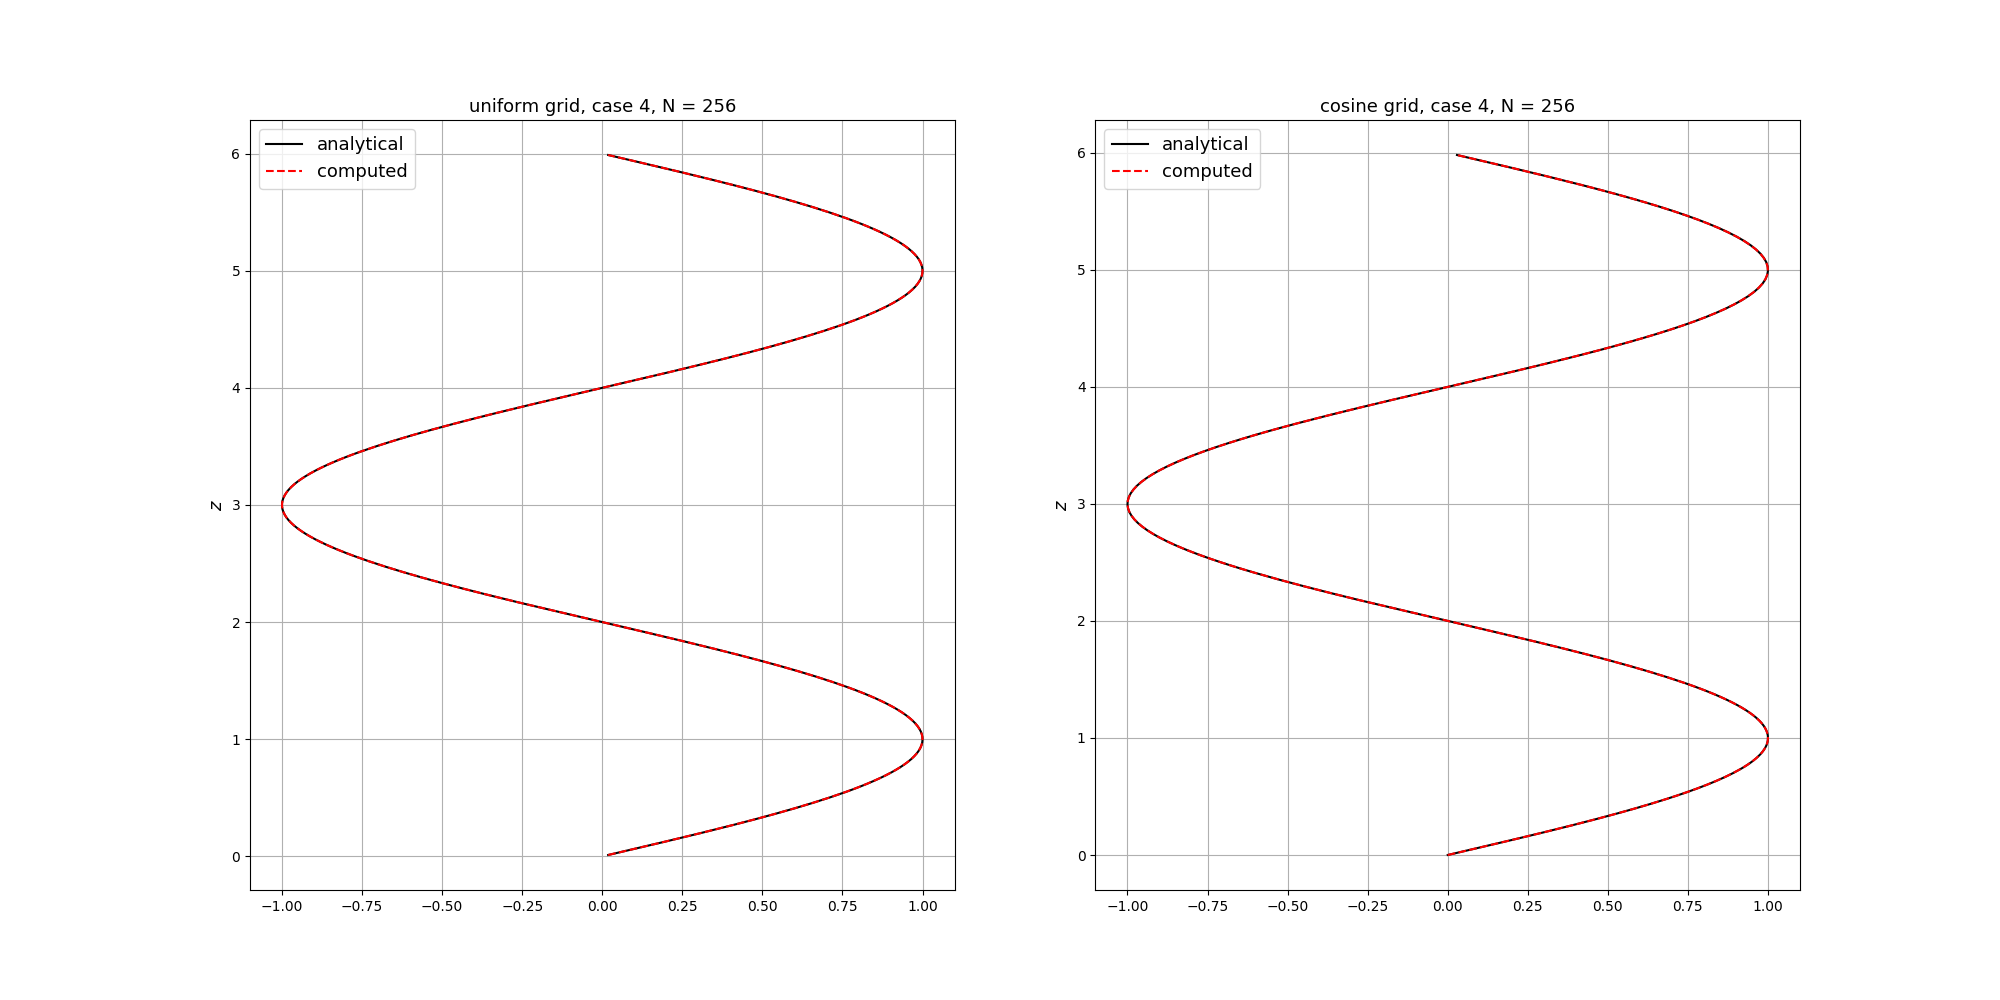
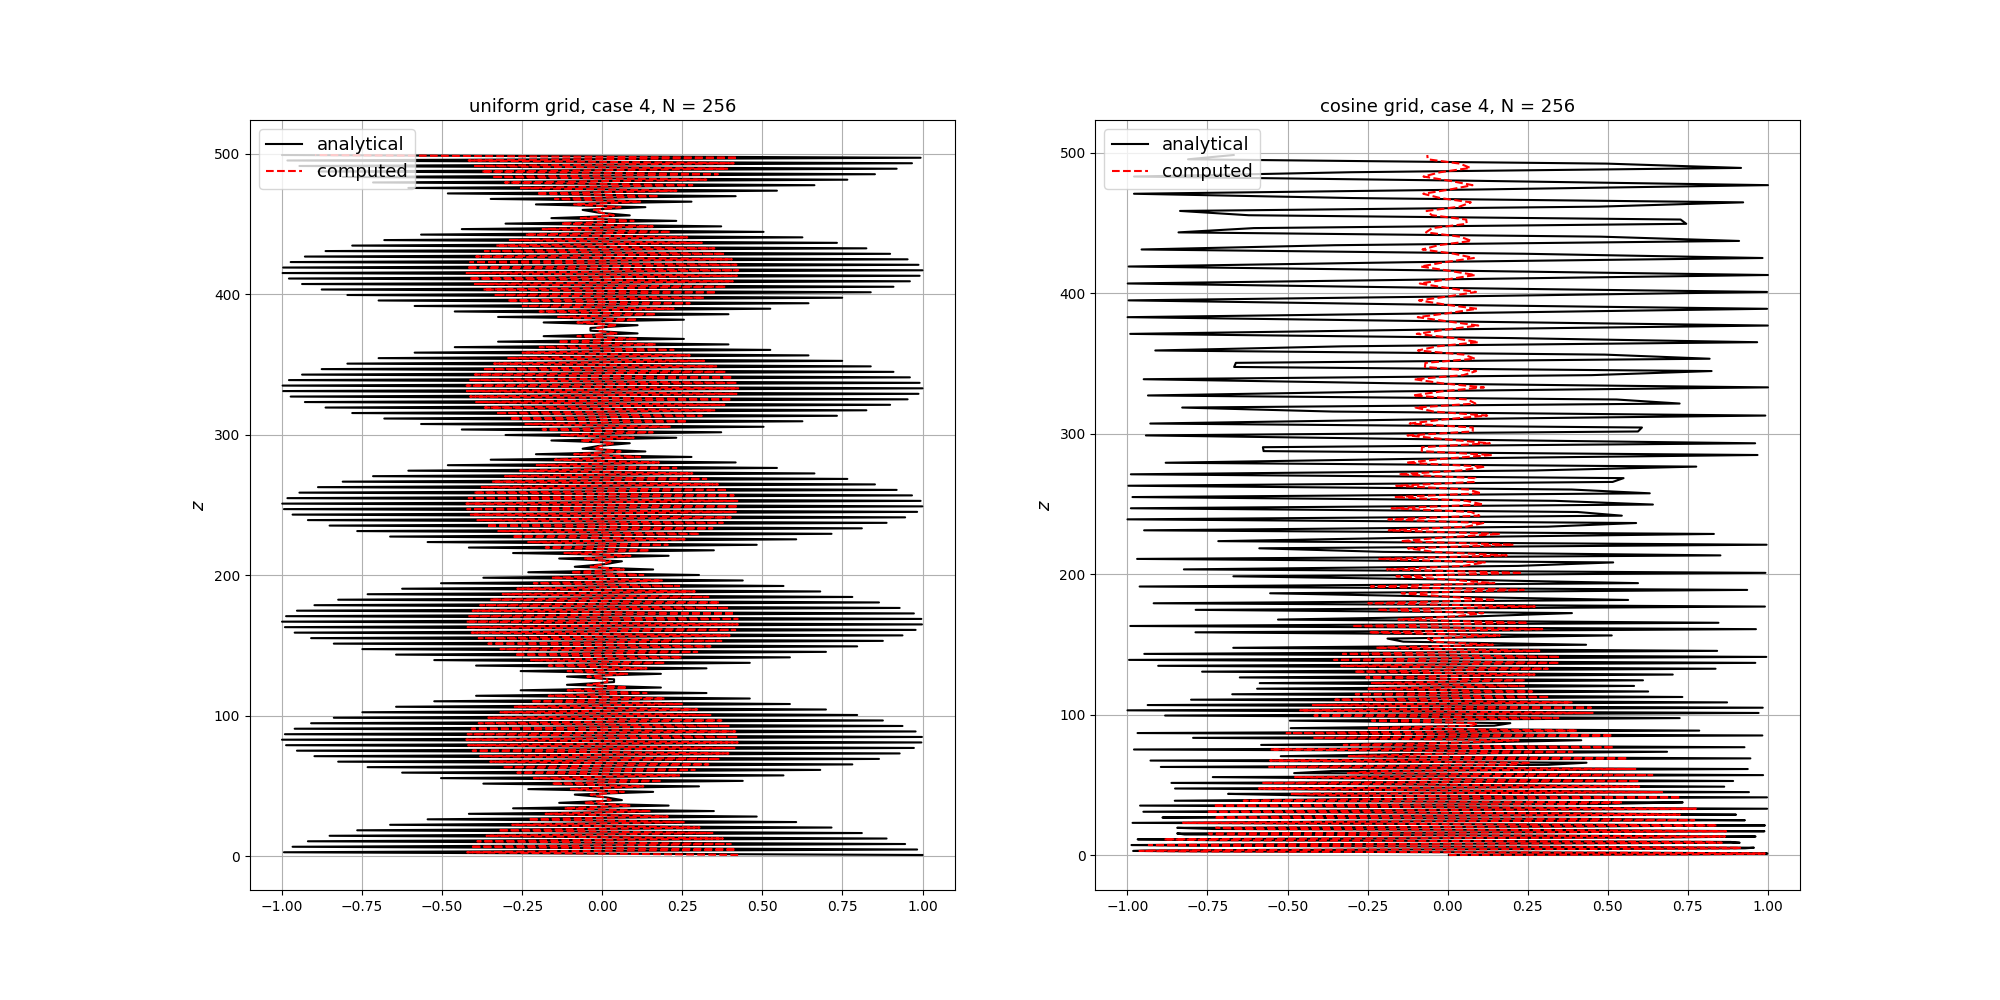
tanh grid

Changed region(s): [[0.558, 0.155, 0.899, 0.868], [0.124, 0.155, 0.465, 0.868]]

diff --git a/verification_tests/discretization_test.py b/verification_tests/discretization_test.py
@@ -15,7 +15,7 @@ figure_path = './verification_tests/figures/discretization_test/'
 # =============================================================================
 # loop over Nz resolution Chebyshev node grid
 
-max_exp = 15 # power of two, must be equal to or greater than 5 (maximum N = 2^max)
+max_exp = 10 # power of two, must be equal to or greater than 5 (maximum N = 2^max)
 Nr = np.power(np.ones([max_exp-3])*2.,np.linspace(4.,max_exp,max_exp-3)) # resolution 
 Ng = int(np.shape(Nr)[0]) # number of resolutions to try
 
@@ -73,7 +73,7 @@ Ly = np.zeros([Ng]); Lz = np.zeros([Ng]);
 
 output_plot_no = 4
  
-H = 6. #  non-dimensional domain height
+H = 500. #  non-dimensional domain height
 Hd = 1. # dimensional grid scale
 
 for n in range(0, Ng): 
@@ -88,6 +88,15 @@ for n in range(0, Ng):
     zc = zc[0:Nz] # half cosine grid
     dzc = zc[1:Nz] - zc[0:Nz-1]
 
+
+
+    alpha = 1.5 # lower alpha for more points near bot boundary
+    gam = 1./5.
+    #print(np.tanh(gam))
+    zh = H*np.tanh( gam*np.linspace(Nz/alpha, 0.125, num=int(Nz))) / np.tanh(-gam*((Nz+1)/alpha)) + np.ones([Nz])*H #/ np.tanh( gam ) ( np.ones([Nz]) + 
+    dzh = zh[1:Nz] - zh[0:Nz-1]
+
+ 
     wall_flag = 'null'
     params = {'H': H, 'Hd': Hd, 'Nz':Nz, 'wall_flag':wall_flag, 
               'z':z, 'dz':dz, 'grid_scale':Hd} # non-dimensional grid for functions
@@ -98,19 +107,52 @@ for n in range(0, Ng):
     zc = zc*Hd
     #print(np.amax(z))
 
-    if n == 0:
-        plotname = figure_path + 'grid.png'
-        fig = plt.figure(figsize=(16,8)); plt.subplot(1,2,1)
+    if n == 1:
+        plotname = figure_path + 'grids.png'
+        fig = plt.figure(figsize=(24,16)); 
+        plt.subplot(2,3,1)
         plt.plot(np.linspace(0.5, Nz-0.5, num=Nz)/Nz, z, 'ob', label=r"centers")
         plt.xlabel(r"$i^{th}$ grid point divided by N where i={1,N}", fontsize=13)
         plt.ylabel(r"$z$",fontsize=13); plt.grid()
         plt.title(r"uniform grid N = %i" %(Nz),fontsize=13)
-        plt.legend(loc=2,fontsize=13); plt.subplot(1,2,2)
+        plt.legend(loc=2,fontsize=13); 
+        plt.subplot(2,3,2)
         plt.plot(np.linspace(0.5, Nz-0.5, num=Nz)/Nz, zc, 'ob', label=r"centers")
         plt.xlabel(r"$i^{th}$ grid point divided by N where i={1,N}", fontsize=13)
         plt.ylabel(r"$z$", fontsize=13); plt.grid()
         plt.title(r"cosine grid N = %i" %(Nz), fontsize=13)
-        plt.legend(loc=2, fontsize=13); plt.savefig(plotname,format="png")
+        plt.legend(loc=2, fontsize=13); 
+        plt.subplot(2,3,3)
+        plt.plot(np.linspace(0.5, Nz-0.5, num=Nz)/Nz, zh, 'ob', label=r"centers")
+        plt.xlabel(r"$i^{th}$ grid point divided by N where i={1,N}", fontsize=13)
+        plt.ylabel(r"$z$", fontsize=13); plt.grid()
+        plt.title(r"hyperbolics sine grid N = %i, $\alpha=1/5$" %(Nz), fontsize=13)
+        #plt.ylim([-0.1,10.])
+        plt.legend(loc=2, fontsize=13); 
+
+        plt.subplot(2,3,4)
+        plt.semilogy(np.linspace(0.5, Nz-0.5, num=Nz)/Nz, z, 'ob', label=r"centers")
+        plt.xlabel(r"$i^{th}$ grid point divided by N where i={1,N}", fontsize=13)
+        plt.ylabel(r"$z$",fontsize=13); plt.grid()
+        plt.title(r"uniform grid N = %i" %(Nz),fontsize=13)
+        plt.legend(loc=2,fontsize=13); 
+        #plt.ylim([-0.1,10.])
+        plt.subplot(2,3,5)
+        plt.semilogy(np.linspace(0.5, Nz-0.5, num=Nz)/Nz, zc, 'ob', label=r"centers")
+        plt.xlabel(r"$i^{th}$ grid point divided by N where i={1,N}", fontsize=13)
+        plt.ylabel(r"$z$", fontsize=13); plt.grid()
+        plt.title(r"cosine grid N = %i" %(Nz), fontsize=13)
+        plt.legend(loc=2, fontsize=13);
+        #plt.ylim([-0.1,10.]) 
+        plt.subplot(2,3,6)
+        plt.semilogy(np.linspace(0.5, Nz-0.5, num=Nz)/Nz, zh, 'ob', label=r"centers")
+        plt.xlabel(r"$i^{th}$ grid point divided by N where i={1,N}", fontsize=13)
+        plt.ylabel(r"$z$", fontsize=13); plt.grid()
+        plt.title(r"hyperbolics sine grid N = %i, $\alpha=1/5$" %(Nz), fontsize=13)
+        #plt.ylim([-0.1,10.])
+        plt.legend(loc=2, fontsize=13); 
+
+        plt.savefig(plotname,format="png")
         plt.close(fig);
 
     U0 = 2. # free stream velocity

diff --git a/functions.py b/functions.py
@@ -249,7 +249,11 @@ def rk4( params , time , Phin , count , plot_flag , case_flag ):
     # doesn't that mean that I get many unique As?
               
     A = np.zeros( [int(params['Nz']),int(params['Nz'])] , dtype=complex ) 
-    A[:,:] = -uS*1j*params['a']*params['eye_matrix'] + ( params['dzz_zeta'] - (params['a']**2.*params['eye_matrix']) ) / params['Re'] + np.dot(uzzS*1j*params['a']*params['eye_matrix'],params['inv_psi']) #- params['eye_matrix']*params['sigma_i']
+    #A[:,:] = -uS*1j*params['a']*params['eye_matrix'] + ( params['dzz_zeta'] - (params['a']**2.*params['eye_matrix']) ) / params['Re'] + np.dot(uzzS*1j*params['a']*params['eye_matrix'],params['inv_psi']) #- params['eye_matrix']*params['sigma_i']
+
+    A[:,:] = - uS*1j*params['a']*params['eye_matrix']*params['Re']/2. \
+             + np.dot(uzzS*1j*params['a']*params['eye_matrix']*params['Re']/2.,params['inv_psi']) \
+             + ( params['dzz_zeta'] - (params['a']**2.*params['eye_matrix']) ) / 2. 
 
   if case_flag == 'base_flow_test':
     b, u, v, bz, uz, vz, bzz, uzz, vzz = rotating_solution( params, time, 2 ) # dimensional
@@ -338,8 +342,19 @@ def grid_choice( grid_flag , Nz , H ):
  # non-dimensional grid 
  if grid_flag == 'uniform': 
    z = np.linspace((H/Nz)/2. , H-(H/Nz)/2., num=Nz, endpoint=True) 
+
  if grid_flag == 'cosine': # half cosine grid
    z = -np.cos(((np.linspace(1., 2.*Nz, num=int(2*Nz)))*2.-1.)/(4.*Nz)*np.pi)*H+H
+  
+ if grid_flag == 'tanh':
+   if H > 5.:
+     alpha = 1.5 # lower alpha for more points near bot boundary
+     gam = 1./5.
+     z = H*np.tanh( gam*np.linspace(Nz/alpha, 0.125, num=int(Nz))) / np.tanh(-gam*((Nz+1)/alpha)) + np.ones([Nz])*H #/ np.tanh( gam ) ( np.ones([Nz]) + 
+     #dzh = zh[1:Nz] - zh[0:Nz-1]
+   else:
+     print('Error: H to low for tanh grid')
+
  z = z[0:Nz] #/ 2. 
  dz = z[1:Nz]-z[0:Nz-1]
  return z,dz

diff --git a/LaTeX_Floquet_theory_primer/floquet_primer2.tex b/LaTeX_Floquet_theory_primer/floquet_primer2.tex
@@ -547,13 +547,18 @@ can be obtained through the relationship:
  \label{eq:eigroots}
 \end{equation}
 So for Hill equations the stability can be determined either by the Floquet multipliers 
-or the trace of the monodromy matrix ($\text{tr}[(\Phi^*(T))^2]$). 
+or the trace of the monodromy matrix ($\text{tr}[(\Phi^*(T))^2]$).
+% The Floquet exponent $\gamma_j$ corresponding to the $j$th Floquet multipler can be obtained as:
+% \begin{equation}
+%  \gamma_j=\frac{1}{T}\log(\mu_j)+i\frac{2\pi{}n}{T} \qquad n\in\mathbb{Z}
+% \end{equation}
+% and therefore are not uniquely determined by the multiplier.
 The stability of the system in terms of Floquet multipliers is:
 \begin{enumerate}[label=(\alph*)]
 \item If $|\mu|<1$ (where $|\mu|$ is the complex modulus of $\mu$) then the real part of the corresponding
  Floquet exponent is negative ($\text{Real}[\gamma]<0$) and the Floquet mode is 
  damped. If all of the multipliers $\mu_k$ satisfy this property then the system is 
- \textbf{stable} and decays as $t\rightarrow\infty$.
+ \textbf{stable} and decays as $t\rightarrow\infty$. 
 \item If $|\mu|=1$ then the corresponding
  Floquet exponent is zero ($\text{Real}[\gamma]=0$) and the mode is 
  periodic, although not necessarily oscillating with the base period. 
